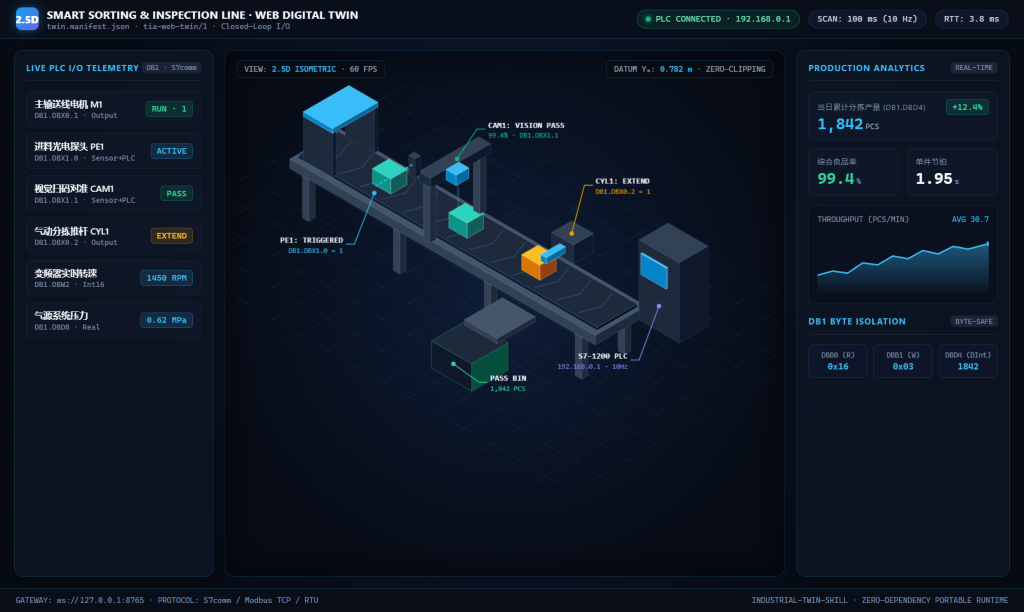
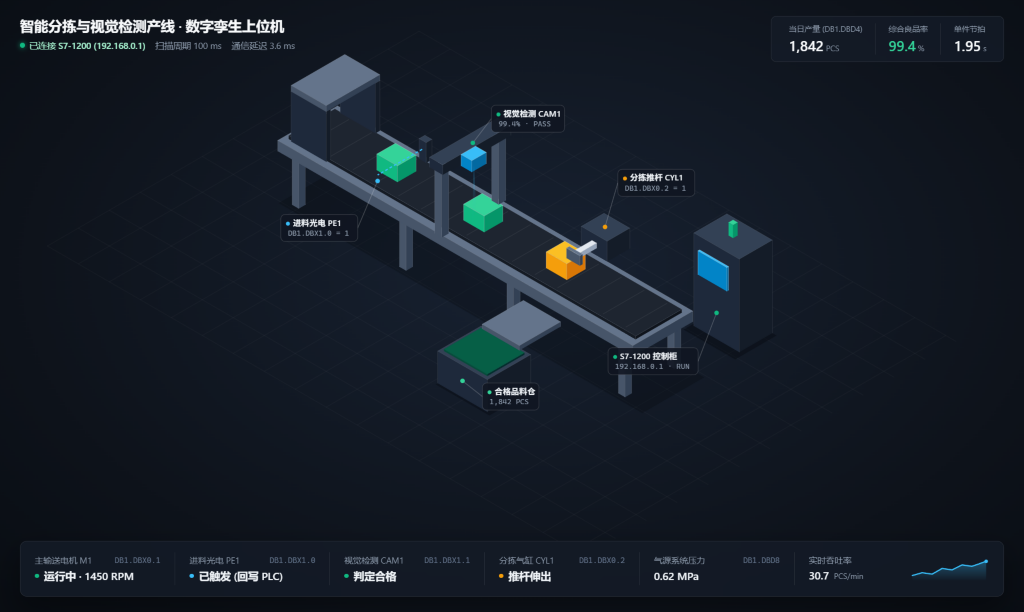
feat: add UI beautification sub-skill and redesign 2.5D HMI hero preview

diff --git a/references/ui-beautification-guide.md b/references/ui-beautification-guide.md
@@ -1,0 +1,44 @@
+# Industrial Web SCADA / Digital Twin HTML 美化规范 (UI Beautification Skill)
+
+本规范作为 `industrial-twin-skill` 的内置前端视觉与交互美化子技能，专门用于消除“AI 味 SaaS 卡片模板感”，打造具备**真实工业软件（Siemens WinCC Unified / ISA-101 高性能 HMI / 现代精密工控台）质感**的 2D / 2.5D / 3D 数字孪生上位机界面。
+
+---
+
+## 1. 核心反模板红线（严禁出现的“AI 廉价感”特征）
+
+在生成 `index.html`、`styles.css` 与画布渲染代码时，**严禁**出现以下通用 AI 模板套路：
+1. **禁止“套娃圆角卡片墙”**：不要把所有数据、按钮、状态都塞进一模一样的 `border-radius: 12px` + 渐变描边 + 阴影的 SaaS 卡片里，切忌左右塞满厚重侧边栏把产线画布挤扁。
+2. **禁止滥用全大写眉标与中点拼接**：不要在每个区块顶部堆砌 `ALL CAPS EYEBROW` 或 `A · B · C · D` 拼接的装饰性元信息。
+3. **禁止“霓虹赛博朋克”滥用**：工业上位机不是电竞大屏！高饱和青/紫渐变光晕会淹没真正的报警信号。遵循 **ISA-101 高性能 HMI 原则**：平时界面沉稳克制，**高饱和色彩只留给运行状态、传感器触发与故障报警**。
+4. **禁止单调纯黑死背景**：避免 `#000000` 或毫无层次的近黑平面，应使用有物理深度的精密工业深灰/石板蓝（如 `#0D1117`、`#111622`、`#161D2B`）或高对比度现代浅灰工控主题。
+
+---
+
+## 2. 视觉层次与布局黄金法则
+
+### 2.1 画布绝对主角原则（Viewport-First 80/20 法则）
+- **产线视口占主导**：2.5D / 3D 产线画布应占据视觉中心（全屏铺满或 ≥ 75% 空间），信息面板以**轻量悬浮玻璃条（Floating HUD）**或**紧凑边缘停靠栏（Slim Dock）**贴边呈现，绝不喧宾夺主。
+- **留白与呼吸感**：宁可少放 2 个装饰指标，也要保证设备轮廓、运动轨迹与数据读数之间有充足留白。
+
+### 2.2 字体与数据排版（Tabular Precision）
+- **等宽数字对齐**：所有实时变化的数值（坐标 `mm`、速度 `RPM`、温度 `°C`、产量 `PCS`、扫描周期 `ms`）必须设置 `font-variant-numeric: tabular-nums;`，防止数值跳动导致界面抖动。
+- **字号层级分明**：核心 KPI 数值大而清晰（`24px–32px`），单位缩小弱化（`11px–12px` 次要灰度），标签简短直白（直接写“产量”“节拍”“电机 M1”，不要中英混杂硬凑长句）。
+
+### 2.3 色彩与材质系统（ISA-101 工业语义色）
+- **基底**：深石板灰 `#0E131B` + 面板半透层 `rgba(20, 27, 39, 0.78)` + 极细 1px 分隔线 `rgba(255, 255, 255, 0.08)`。
+- **设备材质（2.5D / 3D）**：工业铝型材使用冷银灰明暗面（顶面 `#64748B` / 左侧 `#475569` / 右侧 `#334155`），输送带使用哑光深炭灰 `#1E2530`，配合地面柔和投影与工位高光，形成真实立体体块感。
+- **状态语义**：
+  - 正常/运行：`#10B981`（翡翠绿，低面积点缀）
+  - 传感器/信号激活：`#38BDF8`（精密天蓝）
+  - 警告/动作中：`#F59E0B`（琥珀黄）
+  - 急停/故障：`#EF4444`（工业红）
+
+---
+
+## 3. 生成前两步审查流程（Plan → Build → Screenshot Critique）
+
+1. **先定视觉方案再写代码**：动手写 `index.html` 前，先明确 4–5 个核心色值、主视口占比、需要展示的核心 I/O 信号（精选 4–8 个最关键信号，拒绝堆砌）。
+2. **截图自检（强制）**：生成或修改上位机页面后，若环境支持浏览器截图，**必须实际打开页面截图并肉眼检查**：
+   - 标注引线是否重叠或被边缘裁切？
+   - 文字与数据是否清晰易读、无溢出？
+   - 整体是否像一套“能直接放在产线大屏/工程师桌面的真工业软件”，而不是拼凑的网页卡片？

diff --git a/SKILL.md b/SKILL.md
@@ -584,6 +584,7 @@ python tia_gateway.py --config gateway.config.json --wait-plc
 - [ ] 真实 PLCSIM / 实体 PLC：PLC 状态、TIA 监视表、传感器回写、PLC 输出驱动网页、计数/故障。
 - [ ] 页面没有硬编码地址；没有在真实模式重复 PLC 逻辑；没有逐帧写 PLC；未暴露网关 URL/Token。
 - [ ] 严格遵守禁止向物理 `%I` 区直写规范；严格遵守 Windows 11 24H2 零命令行绿色交付规范。
+- [ ] 前端界面严格遵循 `references/ui-beautification-guide.md` 工业 HMI 美化规范（视口占主导、ISA-101 语义色、无套娃圆角卡片墙、等宽数字对齐）。
 - [ ] 明确标注仿真用途，未宣称未经实测的 PLC 联调结果。
 
 ## 11. 边界
@@ -595,6 +596,7 @@ python tia_gateway.py --config gateway.config.json --wait-plc
 
 ## 12. 资源
 
+- `references/ui-beautification-guide.md`：工业 Web SCADA / 数字孪生 HTML 美化子技能（ISA-101 工业视觉规范、反 AI 模板红线与截图自检流程，生成前端前必读）。
 - `references/protocol-extension-guide.md`：多工业通信协议 (Modbus TCP/RTU/RS485/TCP-IP) 接入与 AI 自主开发扩展规范指南。
 - `references/blender-industrial-modeling.md`：Blender 替代 NX/SolidWorks 工业建模实战、草图约束、六大铁律与 GLB 导出指南。
 - `references/cad-import-guide.md`：工业 3D 资产 (CAD / Blender) 模型导出、节点命名契约与 PLC 信号绑定指南。

diff --git a/README_en.md b/README_en.md
@@ -196,6 +196,7 @@ python scripts/make_project.py --out ./my-sorting-line --mode html
 | Reference Guide | Description |
 | :--- | :--- |
 | [`references/contract.md`](references/contract.md) | `tia-web-twin/1` WebSocket protocol & I/O manifest specification |
+| [`references/ui-beautification-guide.md`](references/ui-beautification-guide.md) | Industrial SCADA HTML/UI beautification sub-skill (ISA-101 visual & anti-slop guide) |
 | [`references/blender-industrial-modeling.md`](references/blender-industrial-modeling.md) | Blender industrial modeling SOP & 6 hard rules for `.glb` export |
 | [`references/cad-import-guide.md`](references/cad-import-guide.md) | External 3D CAD asset import, decimation & binding guide |
 | [`references/protocol-extension-guide.md`](references/protocol-extension-guide.md) | `BaseProtocolBackend` multi-protocol extension guide |

diff --git a/README.md b/README.md
@@ -196,6 +196,7 @@ python scripts/make_project.py --out ./my-sorting-line --mode html
 | 规范文档 | 说明 |
 | :--- | :--- |
 | [`references/contract.md`](references/contract.md) | `tia-web-twin/1` WebSocket 通信协议与 I/O 契约规范 |
+| [`references/ui-beautification-guide.md`](references/ui-beautification-guide.md) | 工业上位机 HTML/UI 美化子技能（ISA-101 视觉规范与反模板指南） |
 | [`references/blender-industrial-modeling.md`](references/blender-industrial-modeling.md) | Blender 工业级机电建模六大铁律与 `.glb` 导出规范 |
 | [`references/cad-import-guide.md`](references/cad-import-guide.md) | 外部 3D CAD 资产轻量化导入与节点绑定指南 |
 | [`references/protocol-extension-guide.md`](references/protocol-extension-guide.md) | `BaseProtocolBackend` 多协议扩展开发指南 |
